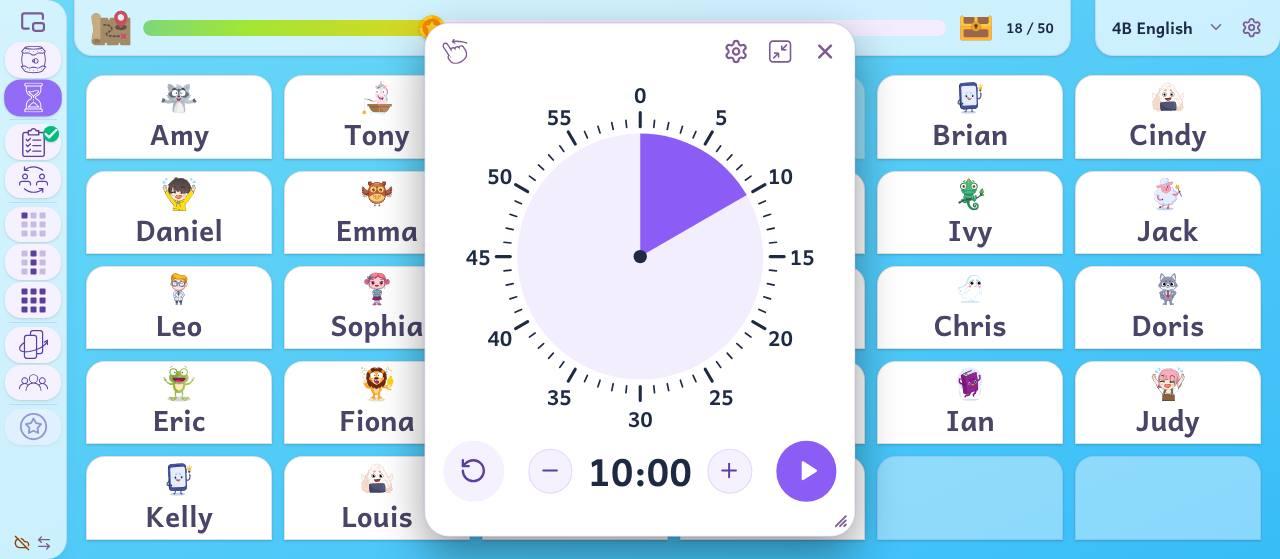
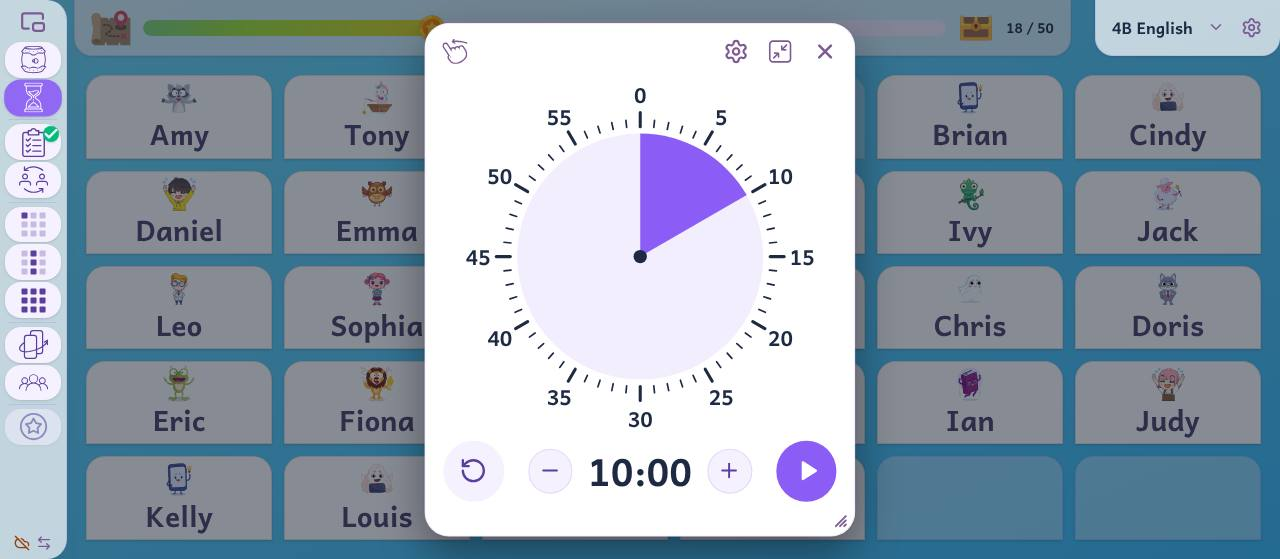
The board dims behind the timer, and its last seconds turn orange and red
While the timer is big over the board, the board dims behind it so the
clock is what the room looks at. It is only a shade: a desk under it can
still be tapped and given a star, and the side buttons and the class's
tab stay bright. Put away in the bar, nothing dims.

The last 20 seconds turn the whole clock orange (its ring, a wash over it,
the wedge, the time and the play button), and the last 10 red, with a
pulse as each second goes. When time is up the clock dances with the
alarm, then waits, red, for a tap as before. Put away, the clock in the
bar goes orange and red, pulses and dances the same way.

The tour's timer picture shows the dim. The walkthrough checks all of
this, and its "nothing scrolls" now really checks Chalkboard (it had been
asking for the theme by the wrong name, so it saw Elementary twice).

Claude-Session: https://claude.ai/code/session_01B1zNE53rMRp4EhcBhXDTc8

diff --git a/src/components/BigTimer.tsx b/src/components/BigTimer.tsx
@@ -1,6 +1,6 @@
 import clsx from 'clsx'
 import { Check, Minus, Plus, RotateCcw, Settings, Volume2, VolumeX } from 'lucide-react'
-import { useRef, type CSSProperties, type MouseEvent, type PointerEvent } from 'react'
+import { useEffect, useRef, type CSSProperties, type MouseEvent, type PointerEvent } from 'react'
 import {
   TIMER_COLORS,
   TIMER_MIN_SIZE,
@@ -11,6 +11,7 @@ import {
   type TimerSound,
   type TimerState,
 } from '../hooks/useTimer'
+import { useLingerWhileClosing } from '../hooks/useLingerWhileClosing'
 import { ALARM_SOUND_LABELS, playPickerTick } from '../lib/sound'
 import { MoveHandIcon } from './MoveHandIcon'
 import { BackIcon, MinimizeIcon } from './RailIcons'
@@ -43,8 +44,12 @@ function fresh(ms = TAP_GUARD_MS) {
  * The timer, big over the board (2026-10-09, the teacher; drawn after Classroom Screen's visual
  * timer): a 60-minute face numbered every five minutes with a tick a minute, the time left a
  * wedge shrinking back to the top, the time in numbers under it, Again on the left and a round
- * play button on the right. The board behind isn't dimmed and stays live, so a desk can be
- * tapped for a point while it runs.
+ * play button on the right. The board dims behind it (`TimerDim`) but stays live, so a desk can
+ * still be tapped for a point while it runs.
+ *
+ * The last 20 seconds turn the whole clock orange, the last 10 red with a pulse on every second,
+ * and time's up makes it dance as the alarm goes (2026-10-12, the teacher), so the room sees the
+ * end coming from anywhere in it. Put away in the bar, the clock there does the same.
  *
  * Like a window: its top strip has the hand (hold and slide to move it), the gear (its colour and
  * sound, in the face's place until Back), minimise (away into the goal meter's bar) and X (off).
@@ -62,6 +67,38 @@ export function BigTimer() {
       <TimerCard t={t} />
     </div>
   )
+}
+
+/**
+ * The board dims while the timer is big (2026-10-12, the teacher), so the clock is what the room
+ * looks at; put away in the bar, nothing dims. It is only a shade: taps go through it, so a desk
+ * can still be tapped for a point, and the rail and the class's tab sit above it, bright.
+ */
+export function TimerDim() {
+  const big = useTimer((s) => s.view === 'big')
+  const shown = useLingerWhileClosing(big)
+  if (!shown) return null
+  return <div aria-hidden="true" className={clsx('timer-dim', !big && 'closing')} />
+}
+
+/** The last 20 seconds are orange and the last 10 red; time's up stays red until it is tapped. */
+function endPhase(s: Pick<TimerState, 'left' | 'up'>) {
+  if (s.up || s.left <= 10) return 'last'
+  if (s.left <= 20) return 'ending'
+  return null
+}
+
+const reducedMotion = () => window.matchMedia('(prefers-reduced-motion: reduce)').matches
+
+/**
+ * In the last 10 seconds the clock pulses once as each second goes, started by the second itself
+ * so the pulse and the number change together. `element.animate`, which the graphics chip runs.
+ */
+function usePulseEachSecond(ref: { current: HTMLElement | null }, left: number, running: boolean) {
+  useEffect(() => {
+    if (!running || left > 10 || left <= 0 || reducedMotion()) return
+    ref.current?.animate([{ scale: 1 }, { scale: 1.05, offset: 0.3 }, { scale: 1 }], { duration: 650, easing: 'ease-out' })
+  }, [ref, left, running])
 }
 
 function TimerCard({ t }: { t: TimerState }) {
@@ -84,12 +121,15 @@ function TimerCard({ t }: { t: TimerState }) {
   /** The tap that ends a slide sets nothing and presses nothing. */
   const swallow = useRef(false)
 
+  usePulseEachSecond(cardRef, t.left, t.running)
+
   const pos = t.pos ?? { x: 0.5, y: 0.5 }
   const style = {
     '--px': pos.x,
     '--py': pos.y,
     '--k': t.size,
-    ...(t.color !== 'theme' && { '--tw': TIMER_COLORS[t.color] }),
+    // The colour picked for the wedge, which the last seconds' orange and red take over.
+    ...(t.color !== 'theme' && { '--tw-pick': TIMER_COLORS[t.color] }),
   } as CSSProperties
 
   function begin(e: PointerEvent) {
@@ -211,7 +251,7 @@ function TimerCard({ t }: { t: TimerState }) {
   return (
     <div
       ref={cardRef}
-      className={clsx('timer-card', t.settings && 'setting')}
+      className={clsx('timer-card', t.settings && 'setting', endPhase(t), t.up && 'up')}
       style={style}
       data-timer-card=""
       role="dialog"
@@ -438,19 +478,22 @@ function TimerChoices({ t, onBack }: { t: TimerState; onBack: () => void }) {
 /**
  * Put away (the minimise button): a clock at the start of the goal meter's bar, the time alone,
  * with pause or play and X, the way Windows puts a window on the taskbar. A tap on the time opens
- * it big again where it was. Red and breathing when the time is up, until it is tapped.
+ * it big again where it was. Orange for the last 20 seconds and red for the last 10, as the big
+ * clock is; when the time is up it dances with the alarm, then breathes red until it is tapped.
  */
 export function TimerClock({ frame }: { frame?: string }) {
   const view = useTimer((s) => s.view)
   const up = useTimer((s) => s.up)
   const running = useTimer((s) => s.running)
   const left = useTimer((s) => s.left)
+  const clockRef = useRef<HTMLDivElement>(null)
+  usePulseEachSecond(clockRef, left, running && view === 'bar')
   if (view !== 'bar') return null
   const act = (fn: () => void) => () => {
     if (fresh()) fn()
   }
   const clock = (
-    <div className={clsx('timer-clock', up && 'up')} data-timer-clock="">
+    <div ref={clockRef} className={clsx('timer-clock', endPhase({ left, up }), up && 'up')} data-timer-clock="">
       <button type="button" className="timer-open" onClick={act(timer.open)} aria-label="Open the timer" title="Open the timer">
         <span className="timer-digits">{up ? 'Time’s up!' : timeText(left)}</span>
       </button>

diff --git a/src/index.css b/src/index.css
@@ -838,9 +838,28 @@ button {
   }
 }
 
+/* Time's up: the clock dances as the alarm goes, then rests (BigTimer.tsx). Its own rotate and
+   scale, so it never fights the translate that puts the card where it was left. */
+@keyframes timer-dance {
+  0%,
+  100% {
+    rotate: 0deg;
+    scale: 1;
+  }
+  25% {
+    rotate: -5deg;
+    scale: 1.04;
+  }
+  75% {
+    rotate: 5deg;
+    scale: 1.04;
+  }
+}
+
 @media (prefers-reduced-motion: reduce) {
   .side-rail .rail-alarm,
   .timer-clock.up,
+  .timer-card.up,
   .timer-dial .timer-up {
     animation: none;
   }
@@ -856,12 +875,39 @@ button {
   pointer-events: none;
 }
 
+/* The board dims behind the big timer (TimerDim). Only a shade, with no blur: taps go through it to
+   the desks, and the rail and the class's tab sit above it (z-16 in App.tsx). */
+.timer-dim {
+  position: fixed;
+  inset: 0;
+  z-index: 15;
+  pointer-events: none;
+  background: rgb(15 23 42 / 0.5);
+  animation: timer-dim-in 0.25s ease-out both;
+}
+
+.timer-dim.closing {
+  animation: timer-dim-out 0.25s ease-in both;
+}
+
+@keyframes timer-dim-in {
+  from {
+    opacity: 0;
+  }
+}
+
+@keyframes timer-dim-out {
+  to {
+    opacity: 0;
+  }
+}
+
 .timer-card {
   --kk: var(--k, 1);
   --D: calc(min(64dvh, 50dvw) * var(--kk));
   --tap: max(30px, calc(var(--D) * 0.115));
   --side: max(34px, calc(var(--D) * 0.1));
-  --tw: var(--primary);
+  --tw: var(--tw-pick, var(--primary));
   position: absolute;
   left: 0;
   top: 0;
@@ -883,6 +929,41 @@ button {
   flex-direction: column;
   align-items: center;
   gap: calc(var(--D) * 0.015);
+}
+
+/* The last 20 seconds: the whole clock turns orange - its ring, a wash over the card, the wedge, the
+   time and the play button; the last 10 seconds red, with a pulse as each second goes (BigTimer.tsx).
+   Time's up stays red, and the card dances once as the alarm goes. */
+.timer-card.ending {
+  --end: #f97316;
+}
+
+.timer-card.last {
+  --end: #ef4444;
+}
+
+.timer-card:is(.ending, .last) {
+  --tw: var(--end);
+  background-color: color-mix(in srgb, var(--end) 16%, var(--card));
+  outline: max(4px, calc(var(--D) * 0.016)) solid var(--end);
+}
+
+.timer-card:is(.ending, .last) .timer-time {
+  color: var(--end);
+}
+
+.timer-card:is(.ending, .last) .timer-dial .timer-tint {
+  fill: var(--end);
+  fill-opacity: 0.16;
+}
+
+.timer-card:is(.ending, .last) .timer-round.go {
+  background: var(--end);
+  color: #fff;
+}
+
+.timer-card.up {
+  animation: timer-dance 0.4s ease-in-out 6;
 }
 
 /* The choices open at a size that can be read, whatever size the card is; Back puts it back. */
@@ -1274,16 +1355,27 @@ button {
   height: 52%;
 }
 
-.timer-clock.up {
-  background: #ef4444;
+/* Put away, the clock goes orange for the last 20 seconds and red for the last 10, as the big one does. */
+.timer-clock.ending {
+  background: #f97316;
   border-color: transparent;
-  color: #fff;
-  animation: timer-breathe 1.6s ease-in-out infinite;
 }
 
-.timer-clock.up .timer-open,
-.timer-clock.up .timer-bare {
+.timer-clock.last {
+  background: #ef4444;
+  border-color: transparent;
+}
+
+.timer-clock:is(.ending, .last) .timer-open,
+.timer-clock:is(.ending, .last) .timer-bare {
   color: #fff;
+}
+
+/* Time's up: it dances with the alarm, then breathes, red, until it is tapped. */
+.timer-clock.up {
+  animation:
+    timer-dance 0.4s ease-in-out 6,
+    timer-breathe 1.6s ease-in-out 2.4s infinite;
 }
 
 .timer-clock.up .timer-digits {

diff --git a/src/App.tsx b/src/App.tsx
@@ -19,7 +19,7 @@ import { clockPieceClass, ROW_GAP, tabClass } from './lib/topBar'
 import { SeatClassBanner } from './components/SeatClassBanner'
 import { SideRail } from './components/SideRail'
 import { SplashScreen } from './components/SplashScreen'
-import { BigTimer, TimerClock } from './components/BigTimer'
+import { BigTimer, TimerClock, TimerDim } from './components/BigTimer'
 import { AccountQuestionModal, SwitchTeacherModal } from './components/Account'
 import { DEFAULT_GET_READY_PRIZE } from './lib/getReady'
 import { goalIsLive, MAX_CLASSES, pointsModeOf, starsWaitOnDesks, useClasses } from './hooks/useClasses'
@@ -844,7 +844,8 @@ export default function App() {
         {/* Plain boxes, deliberately. They were framer layout boxes so the panel glided when it
             moved to the other side - a once-a-term change - and that made framer measure the
             page on every render: every desk tap, every point, every picker flash. */}
-        <div className="flex min-h-0" style={{ gridArea: 'rail' }}>
+        {/* Above the timer's dim (TimerDim), with the class's tab: the teacher's own buttons stay bright. */}
+        <div className="relative z-[16] flex min-h-0" style={{ gridArea: 'rail' }}>
           {sideRail}
         </div>
 
@@ -877,7 +878,7 @@ export default function App() {
               <div className="flex-1" />
             </>
           )}
-          <div data-ink="panel" data-class-tab="" className={tabClass(panelSide)}>
+          <div data-ink="panel" data-class-tab="" className={clsx(tabClass(panelSide), 'relative z-[16]')}>
             {classTitle}
           </div>
         </div>
@@ -1135,6 +1136,7 @@ export default function App() {
       />
 
       {/* The timer, big over the board; put away, it is the clock in the bar. */}
+      <TimerDim />
       <BigTimer />
 
       {guide && settingsOpen && !splashOpen && (

diff --git a/DECISIONS.md b/DECISIONS.md
@@ -127,7 +127,7 @@ Newest thinking at the top of each section. Last updated 2026-10-12. Loaded into
 - **Picker sounds: a soft pop on every other flash, then a gentle chime** - for every picker (Pick Student, Pick Row, the group pickers and the floating class goal). The teacher chose the shape by ear on a listening page ("Floating Pick Sounds", a Claude artifact) that played a whole pick three ways: the old sound, a dry 3.5kHz tick on every flash at full volume with a pop-and-sparkle landing, was "too jarring" and he wanted it out of the app altogether; the soft pop at half volume on every flash was good but "still a lot of pops"; the same pop (pop.mp3) on every other flash, with a soft ding to land, was the one he liked. The desk or name still changes every 90ms; only the sound is halved. **Then it was tuned on the board**, in a standalone preview of the app with an example class (a Claude artifact, "Softer Picker Preview"): at a third of full volume the pops needed the speakers all the way up, and the single 1.3kHz ding, which started at full strength, came out "loud and abrupt" after them. Measured offline, the quiet pops and the ding were about equally loud, and 1.3kHz is where classroom speakers and ears are strongest while 500Hz is near the bottom of what the speakers do. So the pops went up to 80% (8 dB louder) and the ding became a chime: G, C and E rolled upward 70ms apart, each fading in over 40ms and ringing about a second, with a faint octave for shimmer - its loudest 50ms about 2 dB under the ding's. Heard again in the preview on the board: "MUCH better", and it went live. tick.mp3 was deleted.
 - **Point sound: an arcade coin, one sound for every point** - the class goal meter moving up (points from the desks, +1 in the floating window, a Mystery Gift) and +1 on a group card, which used to have a ping of its own. The old pings (two quick sine tones, the meter's topping out near 2kHz, the sharpest spot on a board speaker) were jarring, and the teacher asked for a coin "like in Mario, or some sort of chime". A listening page ("Point Award Sounds", a Claude artifact) played four at matched loudness (within 0.3 dB of the old ping), one point or a quick run of three: the old ping, a coin, a small bell, and the single marble from the Marble Sound Lab tuned lower. He chose the coin: "great". It is a short G then a C that rings about half a second, in a triangle wave with a faint octave on top - a coin in spirit, not Nintendo's own sound, and rounder and lower than a console's buzzy square wave. The marble lost to it for points; the Lab's other marble ideas (the pour, the swirl) stay parked.
 - **Minus sound: "Negative reverberate", one low note that drops and fades, at 43% volume.** The recording before it was the teacher's own earlier pick, but it played at full volume, about 14 dB louder than the coin (measured offline, loudest 50ms: -8.9 dB against -22.7), and the room heard it as a blast. A listening page ("Minus Point Sounds", a Claude artifact) offered it turned down, the coin played backwards, a soft buzzer and a wooden plonk, and he liked none of them. He then sent nine recordings of his own. They were measured rather than heard: a low beep (99% under 250Hz) and a bongo were ruled out as too low for a board speaker, a punch because a hitting sound for a child losing a point is the wrong picture, and two pops because the picker already pops. Of three trimmed and levelled on a second page ("Your Minus Sounds"), he chose Negative reverberate. **It breaks the keep-above-400Hz rule on purpose**: nearly all of it is 280-400Hz, and it was picked by ear anyway. If it goes quiet on the board, its volume is the first knob. It is levelled by A-weighting rather than plain loudness, because the ear hears a low note as quieter: about 1.3 dB under the coin to the ear. The file's 71ms of silence at the front is skipped so it lands with the tap, and the synthesised fallback (for when the recording won't play) was turned down to match; at full it was the old blast again. **Listening-page trap**: both pages first played none of the recordings, because the artifact viewer blocks `fetch()`, even of a `data:` address. Recordings on a listening page are decoded from base64 with `atob`, never fetched.
-- **Timer: big over the board, or a clock in the bar** (built 2026-10-10 with the side rail; worked out 2026-10-09 and 2026-10-10 in its preview). **Why**: the times the class reads a timer (a few minutes of independent work, a group project) are the times the desks aren't needed, and when the desks are needed only the teacher glances at it; a medium clock always on screen was wrong for both. Classroom Screen's widgets, Gynzy's tools and ClassDojo's Toolkit put a timer up only when it is wanted, and a phone's running timer shrinks to a little live pill; this does the same. **The rail's hourglass opens it big over the board**, lit while it is; tapped again it puts it away, or turns it off if it was never started; a second tap within 0.7 s is ignored (the board's ghost touch). **Drawn after Classroom Screen's visual timer** (the teacher's screenshots): a **60-minute face** numbered every five minutes with a tick a minute, the time left a wedge shrinking back to the top, the part gone a faint tint, a dot at the centre, the time in numbers under it, **Again** on the left and a round play/pause on the right. The face is a fixed 60 minutes, as Classroom Screen's, Gynzy's and a real Time Timer are (the side panel's dial was a full circle for any time, because at panel size a short time on a 60-minute face was a sliver; big over the board, the dial about 360px across on the teacher's board, a 3-minute slice reads, and Get Ready! covers anything up to a minute and a half). **The wedge is the theme's own colour** (purple in Elementary, blue in Light and Dark, yellow chalk in Chalkboard, red in Comic Book), or blue, red or green, and **only the wedge takes the colour picked** (2026-10-10, the teacher): the tint, the play button and everything else keep the theme's. **Setting it is a tap, never a drag**: a tap on the stopped face sets the time to where the finger landed, to the nearest minute (the top is 60), and − and + beside the time move it a minute at a time (they hide while it runs). It starts at 10 minutes, as Classroom Screen's does, and keeps the last time set. **It floats**: the board behind isn't dimmed and stays live, so a desk can be tapped for a point while it runs. **It moves**: a finger held on its top strip (the teacher's hand picture at its left) moves it at once, anywhere else on the card once it has slid 10px, so the face and the buttons still answer to a tap; only the first finger counts, a held finger opens no menu, and the tap that ends a slide presses nothing. It never goes past an edge, opens again where it was put (the first time in the middle), and moves by transform, which the graphics chip runs. **It can be made smaller**: its bottom corner, three short lines as on a window, down to about half and back up to the size it opened at, the biggest; its top-left corner stays put and it never goes past the screen's edge; it keeps the size it was given. Its buttons keep a finger's size however small it gets. **Its top strip has a window's buttons**: the gear, **minimise** (the teacher's own picture, arrows into a square) and **X**, which turns it off: it stops, goes back to the time set and closes. **The gear holds its colour and its time's-up sound** in the face's place, with the teacher's own go-back arrow at the top (**Back**, no Done button); starting the timer closes them too, and they open at a size that can be read however small the card is. The sounds are the app's six (Ding, Chime, Bell, Train Whistle, Guitar, Rooster) and **No Sound**, new, for a test next door; a tap plays one and picks it. **Minimise puts it away as a clock at the start of the goal meter's bar** (the teacher's idea; at the start, by the rail's button, the teacher's call; with no goal, a small piece of its own by the rail), the way Windows puts a window on the taskbar: the time alone (2026-10-10, the teacher: the little dial beside it went), with pause or play and X; a tap on the time opens it big again where it was. **Time's up**: the alarm, then "Time's up!" in red, breathing, until it is tapped - on the face if it is big, the clock in the bar if it is put away, and the rail's hourglass turns red too. It never opens big by itself (2026-10-10, the teacher), and nothing ends it on a clock; a tap on "Time's up!" on the face puts the time back. **The flip clock went** (2026-10-10, the teacher: much loved as it is, it is too distracting for this app), and with it Timer Settings and the 25% warning. **Left out of Classroom Screen's settings**: the direction, repeat, and a default time (the last time set is kept); the time in numbers always shows. **How it is built**: its state lives outside React (`hooks/useTimer.ts`), and each piece reads only what it shows, so a running timer redraws a clock once a second and never the desks; it counts on the computer's clock, so a slow board, or a page behind the lesson, never drifts. Its size, place, colour, sound and time are kept on the board (`seating-chart-timer-settings-v1`, where the old timer's sound comes across). **Checked** in the walkthrough ("the timer"): a double touch on the hourglass, a tap on the face and −, the wedge alone turning green, a slide to a corner stopping at the edge, the corner making it smaller and that being kept, the slide pressing nothing, put away and counting in the bar, time's up in the bar and on the rail, a tap putting the time back, and X. Measured at 4K-like density with the processor slowed 4x (`scripts/frame-check.mjs`), it runs at 59 frames a second big and 60 in the bar, where the side panel's dial ran at 57.
+- **Timer: big over the board, or a clock in the bar** (built 2026-10-10 with the side rail; worked out 2026-10-09 and 2026-10-10 in its preview). **Why**: the times the class reads a timer (a few minutes of independent work, a group project) are the times the desks aren't needed, and when the desks are needed only the teacher glances at it; a medium clock always on screen was wrong for both. Classroom Screen's widgets, Gynzy's tools and ClassDojo's Toolkit put a timer up only when it is wanted, and a phone's running timer shrinks to a little live pill; this does the same. **The rail's hourglass opens it big over the board**, lit while it is; tapped again it puts it away, or turns it off if it was never started; a second tap within 0.7 s is ignored (the board's ghost touch). **Drawn after Classroom Screen's visual timer** (the teacher's screenshots): a **60-minute face** numbered every five minutes with a tick a minute, the time left a wedge shrinking back to the top, the part gone a faint tint, a dot at the centre, the time in numbers under it, **Again** on the left and a round play/pause on the right. The face is a fixed 60 minutes, as Classroom Screen's, Gynzy's and a real Time Timer are (the side panel's dial was a full circle for any time, because at panel size a short time on a 60-minute face was a sliver; big over the board, the dial about 360px across on the teacher's board, a 3-minute slice reads, and Get Ready! covers anything up to a minute and a half). **The wedge is the theme's own colour** (purple in Elementary, blue in Light and Dark, yellow chalk in Chalkboard, red in Comic Book), or blue, red or green, and **only the wedge takes the colour picked** (2026-10-10, the teacher): the tint, the play button and everything else keep the theme's. **Setting it is a tap, never a drag**: a tap on the stopped face sets the time to where the finger landed, to the nearest minute (the top is 60), and − and + beside the time move it a minute at a time (they hide while it runs). It starts at 10 minutes, as Classroom Screen's does, and keeps the last time set. **It floats**: the board behind stays live, so a desk can be tapped for a point while it runs. **The board dims behind it while it is big** (2026-10-12, the teacher; it wasn't dimmed before), so the clock is what the room looks at, but only as a shade: taps go through it to the desks, and the rail and the class's tab sit above it, bright, so the hourglass and the star are still at hand. Put away in the bar, nothing dims. Measured at 4K-like density with the processor slowed 4x, the timer runs at 58 frames a second with the dim, 59 without (`TimerDim`, `BigTimer.tsx`). **It moves**: a finger held on its top strip (the teacher's hand picture at its left) moves it at once, anywhere else on the card once it has slid 10px, so the face and the buttons still answer to a tap; only the first finger counts, a held finger opens no menu, and the tap that ends a slide presses nothing. It never goes past an edge, opens again where it was put (the first time in the middle), and moves by transform, which the graphics chip runs. **It can be made smaller**: its bottom corner, three short lines as on a window, down to about half and back up to the size it opened at, the biggest; its top-left corner stays put and it never goes past the screen's edge; it keeps the size it was given. Its buttons keep a finger's size however small it gets. **Its top strip has a window's buttons**: the gear, **minimise** (the teacher's own picture, arrows into a square) and **X**, which turns it off: it stops, goes back to the time set and closes. **The gear holds its colour and its time's-up sound** in the face's place, with the teacher's own go-back arrow at the top (**Back**, no Done button); starting the timer closes them too, and they open at a size that can be read however small the card is. The sounds are the app's six (Ding, Chime, Bell, Train Whistle, Guitar, Rooster) and **No Sound**, new, for a test next door; a tap plays one and picks it. **Minimise puts it away as a clock at the start of the goal meter's bar** (the teacher's idea; at the start, by the rail's button, the teacher's call; with no goal, a small piece of its own by the rail), the way Windows puts a window on the taskbar: the time alone (2026-10-10, the teacher: the little dial beside it went), with pause or play and X; a tap on the time opens it big again where it was. **The last seconds can be seen from anywhere in the room** (2026-10-12, the teacher): in the last 20 seconds the whole clock turns orange - a ring round the card, a wash over it, the wedge, the time and the play button - and in the last 10 red, with a pulse as each second goes, started by the second itself so the pulse and the number change together; put away, the clock in the bar goes orange and red the same way. Paused, it keeps its colour without the pulse. **Time's up**: the alarm, and the clock dances (a few quick wiggles, about as long as the alarm, then it rests), then "Time's up!" in red, breathing, until it is tapped - on the face if it is big, the clock in the bar if it is put away, and the rail's hourglass turns red too. It never opens big by itself (2026-10-10, the teacher), and nothing ends it on a clock; a tap on "Time's up!" on the face puts the time back. **The flip clock went** (2026-10-10, the teacher: much loved as it is, it is too distracting for this app), and with it Timer Settings and the 25% warning (the last seconds' orange and red took its place, 2026-10-12). **Left out of Classroom Screen's settings**: the direction, repeat, and a default time (the last time set is kept); the time in numbers always shows. **How it is built**: its state lives outside React (`hooks/useTimer.ts`), and each piece reads only what it shows, so a running timer redraws a clock once a second and never the desks; it counts on the computer's clock, so a slow board, or a page behind the lesson, never drifts. Its size, place, colour, sound and time are kept on the board (`seating-chart-timer-settings-v1`, where the old timer's sound comes across). **Checked** in the walkthrough ("the timer"): a double touch on the hourglass, a tap on the face and −, the wedge alone turning green, a slide to a corner stopping at the edge, the corner making it smaller and that being kept, the slide pressing nothing, put away and counting in the bar, time's up in the bar and on the rail, a tap putting the time back, and X; since 2026-10-12 also the dim (and a desk under it still taking a star, and none in the bar), orange at 0:19 and red and pulsing at 0:09 big and in the bar, and the dance at time's up. Measured at 4K-like density with the processor slowed 4x (`scripts/frame-check.mjs`), it runs at 59 frames a second big and 60 in the bar, where the side panel's dial ran at 57.
 - **Flip Cards: one tap, one meaning, nothing timed.** A student comes up and taps a card; whoever it reveals has the turn, and the side panel's +/- go to them - no selecting a card first, because a tap on a face-up card is how it gets put away. The newest card glows amber; earlier face-up cards dim but stay readable, and stay up. Tapping a faded card gives it the turn back (a spelling bee's "try again") and fades whoever had it. **Only the glowing card can be put away**, and a tap on it puts it on the discard pile. **Flip Back went** (2026-10-05, the teacher: "we don't need it"): a switch on the flip toolbar turned the glowing card face down again for another go in the same round, so the same tap meant two things depending on a switch. Every student gets a turn before anyone has a second, and Shuffle starts the next round. Timed flip-back and set-aside were built and taken out: the teacher, not a clock, decides when a turn ends. So discarding a faded card takes two deliberate taps - wake it, then put it away - which is the protection a double-tap-to-discard would have given, without asking for a gesture the smart board fakes on its own. Putting away the active card leaves nobody active and +/- greyed rather than quietly handing the points back to someone who already had their turn. Reveal All is nobody's turn (every card at full strength, +/- greyed); Hide All only turns cards over - only a tap reaches the discard pile; Shuffle brings everything back. When the cards don't fill the last row, the short row goes on top: the bottom rows are the ones a small child can reach, so those are the ones kept full. The short row starts at the left, like a line of writing, so the empty spaces sit together at the top right (28 cards on six columns leaves the last two top-right slots empty). It was centred at first, which left a hole on each side and looked like cards were missing. The deal matches: cards land bottom row first, left to right, working up, so the short row is the last to arrive. Every card keeps its slot for the whole round: a discard leaves an empty space rather than letting the rest close up, so no card grows, shrinks or moves while the class is choosing. A discarded card flies over the board onto the pile, and the pile counts it when it lands. **The pile sits in the middle of the flip toolbar** (2026-10-05, the teacher: in the board's bottom-right corner it covered the card there, and no corner of a board of cards is free): a small fanned stack of card backs with its count, a dashed outline while it is empty so the first card has somewhere to fly to, and the toolbar's "29 left · 1 done" became "29 left", since the pile says what is done. **Fun surprise cards, the one bonus card** (2026-10-05, the teacher's call, as Mystery Gifts; renamed 2026-10-11; off by default, a switch in Class Settings' Tools, which the flip cards' gear opens). Everyone +1, Jackpot +3 and Oops! went: Everyone +1 was a star for every student, +30 to the chest in a class of 30; "Jackpot +3" confused the class; Oops! was a let-down. A Double Star was offered and turned down as too complicated, and Pick a Friend was dropped long before (picking a friend is what the student at the board is already doing). **Three gifts to a deck** (fewer in a class under nine). Face down they look exactly like student cards, borrowing a random student's back colour, so nobody can hunt for them. With three fixed, the app picks the column count that leaves the fewest gaps (about half the class sizes leave one or two, at the top right as in any deck). **Every step is a student's tap, and nothing happens on a timer**: turned over, the gift dances, wrapped, with "Open!"; a tap opens it, the number rolls (a strip of numbers slowing down, with the picker's pops) and lands with the picker's chime and a small burst of stars, "+3" with a star and "Tap!"; a tap sends the stars flying from the card into the chest, one a star, and the card goes onto the discard pile by itself. **2, 3, 4 or 5 stars**, never 1, since that is what a student's own star is: 2 most often (35%), then 3 (30%), 4 (20%) and 5 (15%), so a 5 feels like luck. **A 5 is a bigger moment**: the card turns gold, the burst is bigger, and a quick run of bright notes plays over the chime - still small next to the chest, the one big celebration. No card takes stars away: a flip is luck, and losing stars to luck isn't fair to the students who earned them. **With a class goal** the stars go into its chest, in either way of running points. **With student points every student here gets them** (2026-10-11, agreed in the menus' preview), as with Get Ready!'s prize, with "Everyone gets 3 stars!" and the coin: a surprise card is nobody's turn, and the app can't tell who tapped it. **With no points none are dealt**, and the switch is greyed with a line saying why. The stars are the whole class's, so they are in no one's participation record. A gift is never anybody's turn: the glow stays where it was. The board's second touch can't open a gift as it turns over, and the 0.7 s guard starts again when the number lands, so the touch that opened it can't send stars nobody saw. Only a student's flip opens a gift: Reveal All shows it still, saying "Gift", and a tap puts it on the pile unopened; Hide All leaves alone a gift a student has turned. Turning gifts on re-deals straight away if nobody has touched the deal yet; mid-round it waits for Shuffle. Everything on the card moves in CSS. The side panel names the student ("Points go to Mulan") only on the flip cards, on one line that is always there so nothing jumps, and Pick All stands down so +/- never mean the whole room. Pick Student and Pick Row stand down too: the flip cards *are* the picker, and a pick behind the deck lit up desks nobody could see. Opening the cards clears a finished pick, and Flip Cards waits while a pick is still flashing. A card ignores taps for 0.7 s after it turns: smart boards read one touch as two, and that second tap would throw away the card it just revealed.
 - **Class goal meter**: one shared total. **A new class starts with its goal on, at 50** (2026-10-06, the teacher's call: the chest is what the class loves, so it is there from the first lesson); classes from before keep theirs as they were. **The map at its start is 40px** (2026-10-05, a third up from 30: the teacher found it hard to see); it still fits the 56px bar. Nothing ever pulls the class meter backward — it's collective momentum, not a ledger — so a minus only ever takes a star still waiting on a desk. **The meter never pushes the board sideways** (2026-10-05): the coin rode on a strip as wide as the track that slid right as the meter filled, so a nearly full meter reached past the edge of the screen, and a pick landing could push the whole app sideways and cut the side panel off. The strip has no width now; the walkthrough's "nothing scrolls" checks for this too. On reaching the goal: celebrate, then reset to 0 for the next goal. **The celebration keys off a "goals reached" counter, never off the total falling** — a reset and a correction are falls too, and Reset Class Goal used to throw the party (with whichever gif had last been decoded, which could be one the teacher had switched away from). **The meter can be corrected** with a stepper in Class Settings' Points ("Number of stars currently on the class goal meter", with **Empty** beside it since 2026-10-11, where Reset Class Goal was): a point that landed by mistake had no way back short of resetting the whole run. It's held to the goal and never opens the chest. **With the goal switched off, stars don't move the meter**: it used to fill out of sight, so switching the goal back on showed progress the class never watched, and a goal could pass with no party. **A goal lowered below what's on the meter leaves it full** (it read "40 / 30"), and the next point opens the chest. **Points past the goal carry into the next run and show once the chest shuts**: the bar used to sit at 0 over them until the next point. Points given while the chest is open wait for it to shut, and a second goal filled mid-party doesn't start a second fanfare on top. **The celebration's GIF is fetched as soon as the meter is up** (2026-10-06): it waited until the meter was 70% full, so a goal filled in one go from further back - Pick All and + with a whole class, a Get Ready! prize, a Mystery Gift, All Stars In! - always opened on the chest, which looked like the GIFs had stopped loading. Giphy was checked serving all 19, full size and small. It is one GIF, and the browser keeps it once it has it; a GIF not there yet when the chest opens still falls back to the chest.
 - **Floating class goal: the meter and one +1, over the lesson.** Derek watched a colleague lose lesson time switching tabs to ClassDojo and back, and the school's Seewo toolbar showed the shape of the answer: a small tool that floats over whatever is on the board. Because this app's points build to a whole-class goal, the floating version can be one button - a marble in the jar - where Dojo's would need the class list, since Dojo can't give a point without finding the child. That is why the parked version (a scrolling name list with +/- beside each name) was not what got built. **Float** sits at the top of the side panel beside Get Ready!, on the outer edge, where the class's name is when there's no goal (it was on the meter's right end, because the meter is what floats, until the teacher found buttons beside the meter took the eye from it, 2026-10-05); it only exists when there is a goal. It stays lit while floating and tapping it again brings the goal back; the window's own close and back-to-tab buttons close it too, and switching the goal off takes it away. The window holds the class name, the fill, the chest and the count, and a +1 that adds a class point straight to the goal (`addToClassGoal`), with nobody's stars behind it. It follows whichever class is open. +1 ignores a second tap for 0.7 s, like the flip cards and the attendance squares, because the board reads one touch as two. **A goal filled from the float doesn't celebrate behind the lesson.** The celebration is the one big moment and it needs the full screen, so the chest waits, full and rattling, while the app isn't in front (not showing, or not the window last tapped), and the float's +1 becomes **Celebrate!**. Tapping it asks the browser to bring the app forward; the chest opens the moment the app is in front, however it got there. If the browser won't bring it forward, the button adds "Open the app to see it". Nothing plays from behind the lesson, and filling the goal in the app itself celebrates exactly as before. **How**: Chrome and Edge's Document Picture-in-Picture, an always-on-top window the page opens on a tap and draws into through a portal, so it is the same app and the same save - a +1 there moves the meter here instantly. It copies the page's styles and follows the theme. Firefox and Safari don't have it, so the button isn't shown there. Everything that moves in it is CSS: the page that draws it gets no animation frames while the lesson covers it, so framer-motion would freeze halfway. It opens at 340x180 and can be moved and resized. **Its limits**: the browser gives it a thin title bar with the site's address and its own back-to-tab and close buttons, so it can never be a bare floating icon like Seewo's - only the desktop program (Electron, parked) could do that. Testing note: Playwright stretches the floating window to the test's viewport, and any request route stops the window loading its pictures, so tests set its size back and pass fonts in as a style tag. **Pick Student in the float** (added once the float had proved itself on the board): **Pick** sits beside +1 (the three buttons, +1, Pick and Get Ready!, are the same size since 2026-10-06, the teacher's call; +1 was the big one). It is the app's own Pick Student - same pace, same sounds, same Allow Repeats and round, the same better chance for the students picked less often, and it skips anyone away today - so the desks behind light up too, and a pick started from the side panel shows in the float as well. The desks can't be seen, so the float shows the pick as a name as big as the window allows: flickering past, then landed and ringed in the picker's amber. The name stays until it is tapped (nothing timed), and that tap also clears the pick in the app. +1 always means the class goal, even with a name up: giving the picked student a star from here would give one button two meanings. Pick stands down whenever the side panel's would (Flip Cards, Group Activity, Swap Seats, Attendance, a pick already running). The 0.7 s tap guard is shared by every button in the float, because clearing a name puts +1 and Pick back under the same finger. **+1 is the star coin alone**, with no "+1" on it (2026-10-06, the teacher): the coin is the point. **+1 after +1 answers every quick tap** (built 2026-10-02, from the teacher's first try on the board): at 0.7 s, tapping +1 quickly gave a point on every other tap and looked broken. The window is out of the children's reach, so the guard is only there for the board's ghost touch, which comes within a split second: +1 straight after +1 waits only 0.2 s, so four or five deliberate taps a second all count. The long guard stays wherever a tap changes what's under the finger: Pick, Celebrate, a picked name, the size button, and a +1 that follows any of them. Separate taps, not press-and-hold: a finger held down on a Windows touch board is a right-click. On the board: tap slowly a few times, and if one tap ever gives two points, raise it to 0.3 s. The side panel's + and a group card's + have no guard at all, so they already answered every tap. **The flicker runs on the floating window's clock**: the app's page is behind the lesson, and Chrome slows a hidden page's timers to about one a second, so the pick is paced by the float's own timer (`pickStudent(clock)`). If the float closes mid-flash that clock stops with it, so the pick is cancelled rather than left flashing forever. **It shrinks to a strip in one tap**, because Derek wanted it see-through so it wouldn't block the lesson, and a web page can't make its window see-through. A shrink button at the end of the meter row turns the window into one row, 290x62 (it was 240x62, the smallest Chrome will resize it to, until Get Ready!'s star joined it): the count, +1, Pick and Get Ready!, and a grow button that puts it back at whatever size it was before. In the strip the class name, fill and chest give way, Pick loses its icon, Get Ready! is its drum alone, a pick is a name the height of the strip, and Celebrate reads "Open the app" once tapped. The layout follows the window's own height (under 120px is the strip), so dragging an edge small gives the strip too. The resize is `resizeTo` from the tap, measured against the window's title bar and edges, which differ between computers; the window keeps its top-left corner where it was. No button back to the full app yet: the window's title bar has the browser's own. **Get Ready! in the floating window** (2026-10-05, the teacher's call, after asking what would help most mid-lesson): it is used right after an instruction, which is when the lesson's slides are up. **Get Ready!** sits beside +1 and Pick, with the taiko drum as its picture. A tap grows the window to **a snug rectangle of the drums** (two rows of four since 2026-10-12), exactly as tall as they need (2026-10-06, the teacher: the first version filled a tall window and left empty space above and below them); a drum grows it to about three quarters of the screen's height, about one and a half times as wide as tall, and brings up the app's own star, drum, prize, sounds, Ready! and Stop, with the same tap guards and the same last word. **No class goal meter and no words under the star** (2026-10-06, the teacher: the star touched the meter): the star is as big as the height allows and **in the middle of the window**, with Ready! and Stop at the top right and **a treasure chest under Stop**, where the stars fly when Ready! is tapped; it swells as each lands, and stays through "Great Job!". The meter shows the new total once the window is back. The last word tapped away, Stop, or the X on the drums puts the window back to the size it was, strip included. It grows from where it sits: a page is never allowed to move this window (below). **It stays well short of the whole screen on purpose**, so the slide - often the instruction itself, "page 134" - still shows beside the star, where the app's own Get Ready! darkens the whole board. Everything in it runs on the floating window's clock (`StarMoment` takes the window as its `view`, `FloatGetReady.tsx`), because the app's page behind the lesson gets about one timer a second and no animation frames; the points are handed over as the stars land, and if the window is closed with stars in the air, then. A goal it fills waits for the app like any other (Celebrate!). It stands down whenever the side panel's would, and the side panel's stands down while it runs. **To try on the board**: how big Chrome lets the window grow, and where it goes from a corner. **Moving it by touch** (2026-10-06, the teacher: holding the window to drag it gives a right-click, which breaks the feature, and asked for a drag area inside the app). **A drag handle of our own can't be built in the browser**: the browsers forbid a page to move this kind of window at all - `moveTo` and `moveBy` do nothing (the Document Picture-in-Picture specification, and the browsers' shared test for it), so that a site can't park an always-on-top window where it passes for part of another program. Only the person can move it, by its title bar, which belongs to Windows and Chrome, so a finger held still there is Windows' right-click whatever the app does. What helps: touching the bar and sliding straight away (Windows only turns a touch into a right-click when the finger stays still); Chrome may reopen the window where it was last put, since the app doesn't ask it not to - to try on the board, as that would make it a drag once a session; and, for one board only, Windows' Pen and Touch slider for how long a hold takes, which the app never relies on, since no teacher should have to change a setting. A real handle a finger can hold needs something outside the page that may move windows: first the **Move tab** helper, a Windows program, which worked on the teacher's board; then the **Move extension**, which puts the handle inside the window itself (both next). The long-press menu inside the window is gone, as everywhere in the app ("A long press opens no menu"). **The float shows the picked student's name alone, with the homeroom number after it where two students share the name** (2026-10-08, the teacher, from a lesson: the float showed the avatar and no number, so two students with the same name couldn't be told apart, and the desks behind can't be seen). It follows the desks' rule (`lib/sameNames`): the number small and quiet after the name, only for a shared name, or for everyone with Homeroom on all desks, and never the part a long name cuts off, in the strip too. The avatar beside the name, added 2026-10-05 so a young reader would know their own character, went at the teacher's call. **A timer was weighed and left out** (the teacher's reasoning): the drums are the timer a routine needs on the fly, and a long timer is nearly always for independent work at the desks, when the class doesn't need the board and the teacher can bring the app forward or use Gynzy's. Flip Cards, Group Activity and Settings stay in the app: they need the whole board.
